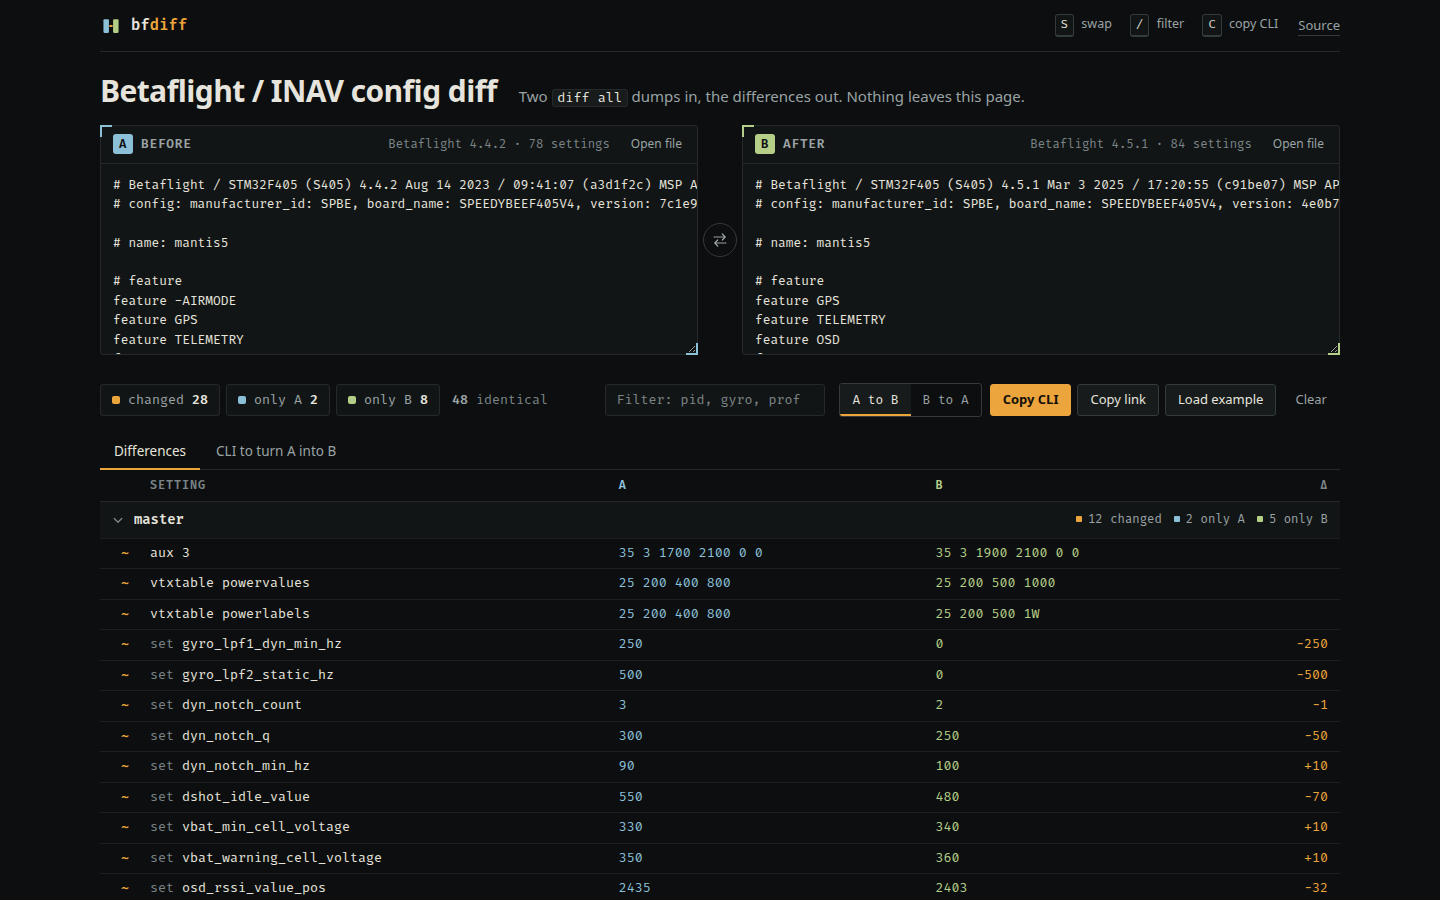
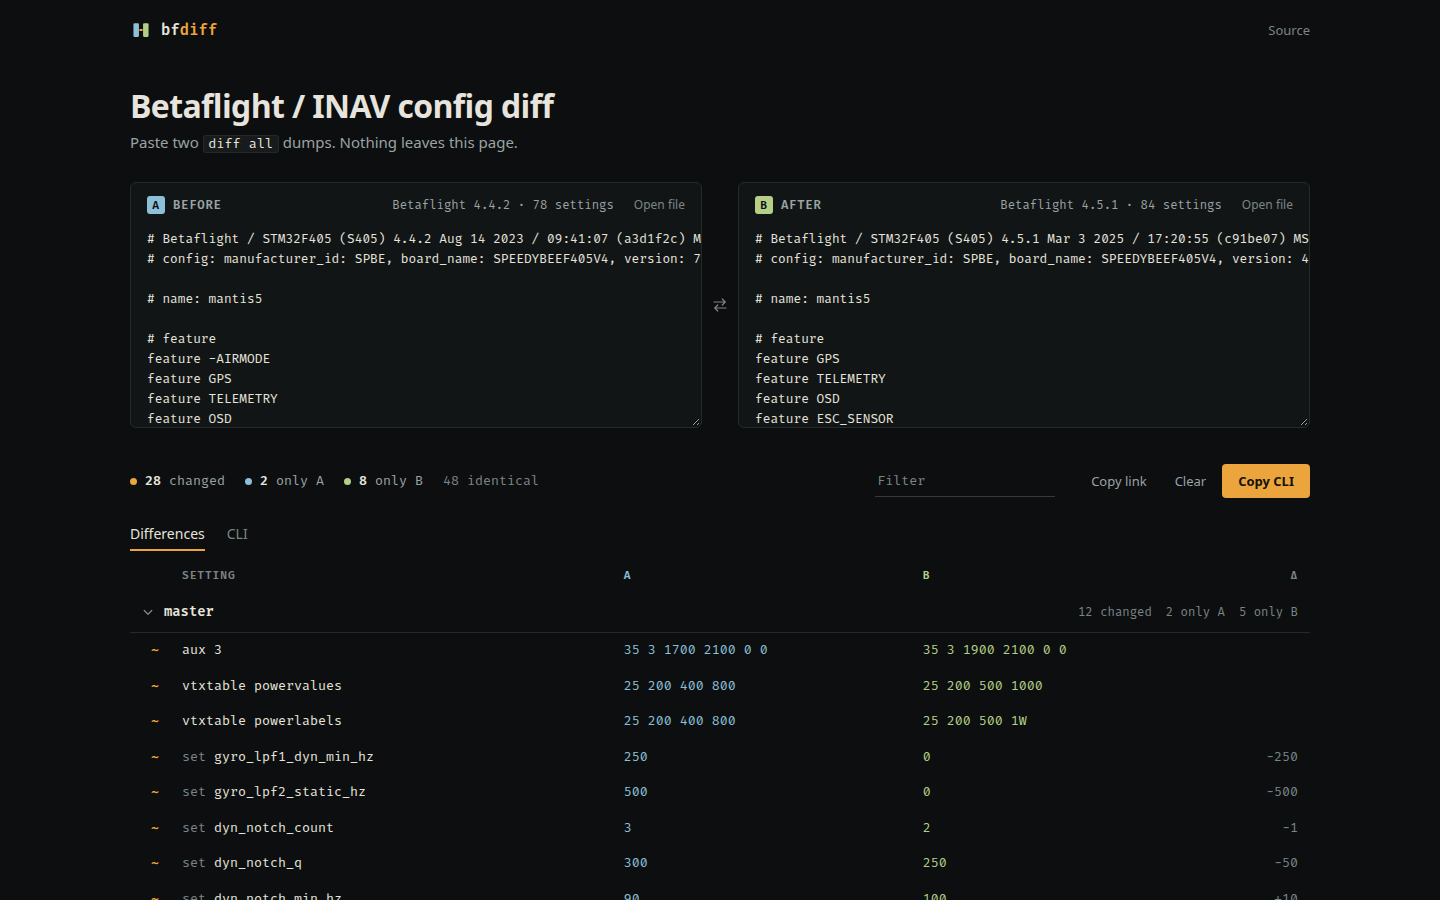
README: link to the live page, new screenshot, drop local-run notes

diff --git a/README.md b/README.md
@@ -2,13 +2,13 @@
 
 Paste two Betaflight or INAV `diff all` dumps, see what changed, and get the CLI that turns one into the other.
 
+**Try it: https://davdd1.github.io/betaflight-diff/**
+
 ![bfdiff comparing two Betaflight dumps](docs/screenshot.png)
 
 I kept doing this by eye after every firmware update and every time someone sent me their tune. Generic text diffs are mostly noise (line order, on/off toggles, profiles interleaved), so this one parses the dump first and matches settings by name and profile.
 
 ## Use it
-
-Open `index.html`, or serve the folder (`npm run serve`, then http://127.0.0.1:8000). There is no build and no network access, so it also works from a file on a laptop at the field.
 
 1. Run `diff all` in the Configurator CLI tab and copy the output. Plain `diff` skips the profiles you are not on.
 2. Paste into A and B, or drop `.txt` files on the page. Two files at once go to A and B in order.
@@ -33,7 +33,5 @@ Keys: `S` swap, `/` filter, `C` copy CLI. `Alt+S` swaps while you are typing in 
 - `app.js`, `style.css`, `index.html` the page. `examples.js` two invented setups for the demo.
 - `vendor/motion.js` is [Motion](https://motion.dev) (MIT), used for one reveal animation and skipped with `prefers-reduced-motion`.
 - Fira Code subset in `fonts/` (OFL).
-
-Tests need Node 18 or newer: `npm test`.
 
 MIT, David Stenman. Not affiliated with Betaflight or INAV. CLI reference: https://betaflight.com/docs/wiki/guides/current/Cli
